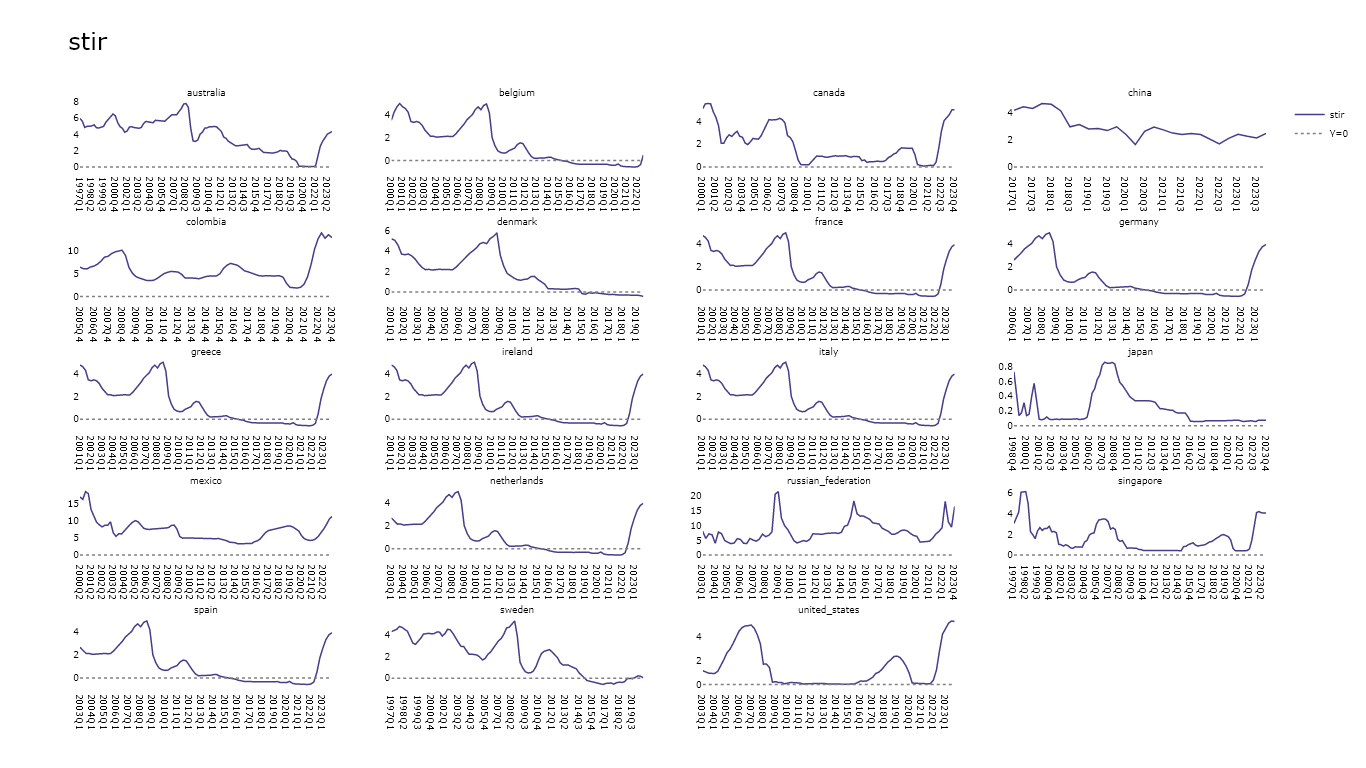
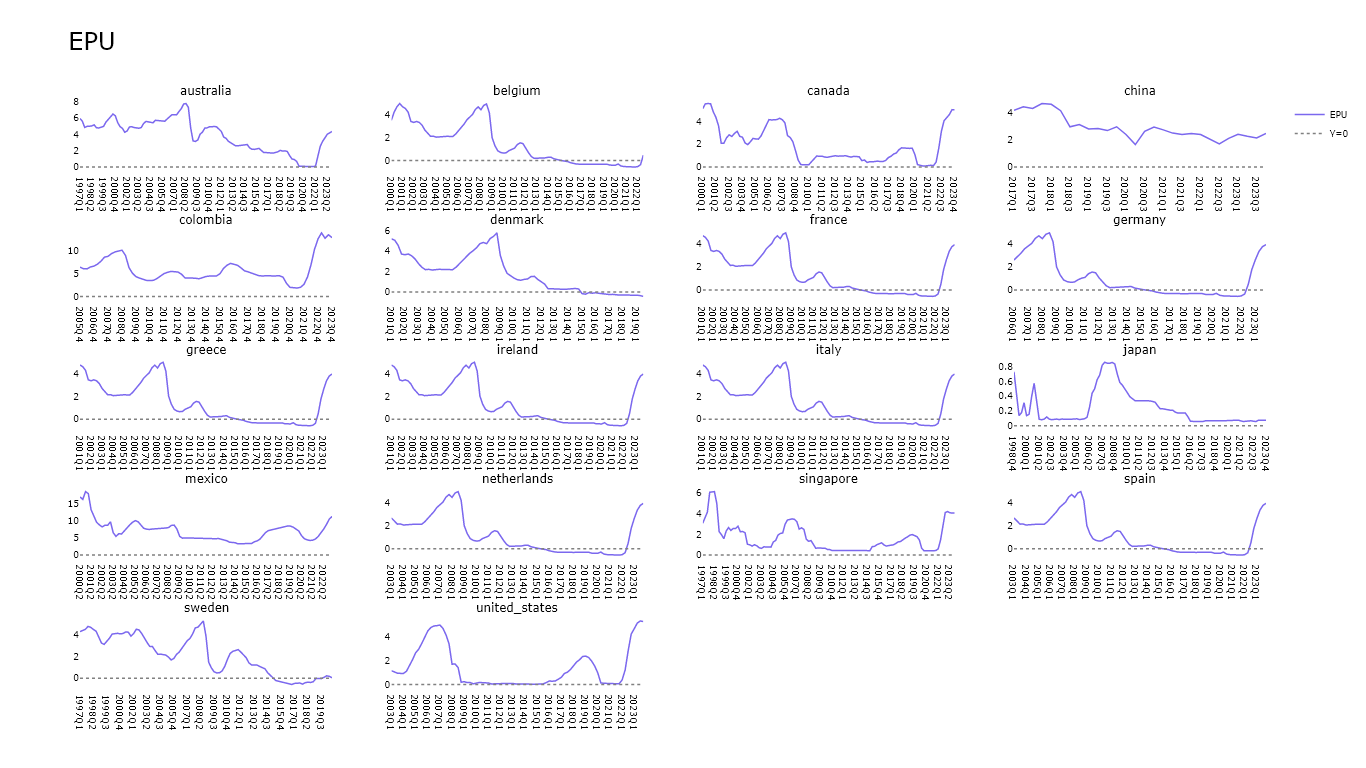
fix: chart settings and redundant charts

diff --git a/descriptive_lineplot_ratesinlevels.py b/descriptive_lineplot_ratesinlevels.py
@@ -47,9 +47,10 @@ df = pd.read_parquet(path_data + "data_macro_yoy_ratesinlevels.parquet")
 
 # %%
 # II --- Additional wrangling
-list_shock_prefixes = ["max", "min", "maxmin"]
-list_mp_variables = [i + "stir" for i in list_shock_prefixes] + ["stir"]
-list_uncertainty_variables = [i + "epu" for i in list_shock_prefixes] + ["epu"]
+list_mp_variables = ["stir", "maxminstir"]
+list_mp_variables_nice = ["STIR", "STIR shocks"]
+list_uncertainty_variables = ["epu", "maxminepu", "wui", "maxminwui"]
+list_uncertainty_variables_nice = ["EPU", "EPU shocks", "WUI", "WUI shocks"]
 # Groupby ref
 cols_groups = ["country", "quarter"]
 # Trim columns
@@ -70,6 +71,21 @@ cols_all = (
     + list_mp_variables
     + list_uncertainty_variables
 )
+cols_all_nice = (
+    [
+        "Private debt %YoY",
+        "Government debt %YoY",
+        "Private debt (% of GDP)",
+        "Government debt (% of GDP)",
+        "Real GDP %YoY",
+        "U-rate YoY",
+        "Core CPI %YoY",
+        "CPi %YoY",
+        "REER %YoY",
+    ]
+    + list_mp_variables_nice
+    + list_uncertainty_variables_nice
+)
 colours_all = [
     "red",
     "green",
@@ -80,8 +96,6 @@ colours_all = [
     "magenta",
     "pink",
     "purple",
-    "mediumpurple",
-    "plum",
     "yellowgreen",
     "orange",
     "mediumslateblue",
@@ -96,15 +110,14 @@ df = df[cols_groups + cols_all].copy()
 # Add y=0
 df["y_is_zero"] = 0
 # Trim more countries
-# if "stir" in mp_variable:
-countries_drop = [
-    "india",  # 2016 Q3
-    "denmark",  # ends 2019 Q3
-    "china",  # 2007 Q4 and potentially exclusive case
-    "colombia",  # 2006 Q4
-    "germany",  # 2006 Q1
-    "sweden",  # ends 2020 Q3 --- epu
-]
+# countries_drop = [
+#     "india",  # 2016 Q3
+#     "denmark",  # ends 2019 Q3
+#     "china",  # 2007 Q4 and potentially exclusive case
+#     "colombia",  # 2006 Q4
+#     "germany",  # 2006 Q1
+#     "sweden",  # ends 2020 Q3 --- epu
+# ]
 # Timebound
 df["date"] = pd.to_datetime(df["quarter"]).dt.date
 df = df[(df["date"] >= t_start)]
@@ -117,18 +130,20 @@ df = df.reset_index(drop=True)
 # %%
 # III --- Plot
 pic_names = []
-for y, ycolour, dash in tqdm(zip(cols_all, colours_all, dashes_all)):
+for y, y_nice, ycolour, dash in tqdm(
+    zip(cols_all, cols_all_nice, colours_all, dashes_all)
+):
     fig = subplots_linecharts(
         data=df,
         col_group="country",
         cols_values=[y, "y_is_zero"],
-        cols_values_nice=[y, "Y=0"],
+        cols_values_nice=[y_nice, "Y=0"],
         col_time="quarter",
-        annot_size=9,
+        annot_size=12,
         font_size=9,
         line_colours=[ycolour, "grey"],
         line_dashes=[dash, "dot"],
-        main_title=y,
+        main_title=y_nice,
         maxrows=5,
         maxcols=4,
         title_size=24,

diff --git a/compile_output_for_paper.py b/compile_output_for_paper.py
@@ -122,7 +122,6 @@ individual_file_names = [
     "lineplot_ratesinlevels_gdp",
     "lineplot_ratesinlevels_corecpi",
     "lineplot_ratesinlevels_reer",
-    "lineplot_ratesinlevels_maxminbrent",
 ]
 individual_file_names = [i + ".png" for i in individual_file_names]
 file_names_from_regex = []

diff --git a/descriptive_special_charts.py b/descriptive_special_charts.py
@@ -101,7 +101,7 @@ for uncertainty, uncertainty_nice in tqdm(
         col_group="country",
         cols_x=[uncertainty],
         cols_y=["gdp_volatility"],
-        annot_size=9,
+        annot_size=14,
         font_size=16,
         marker_colours=["red"],
         marker_sizes=[2],
